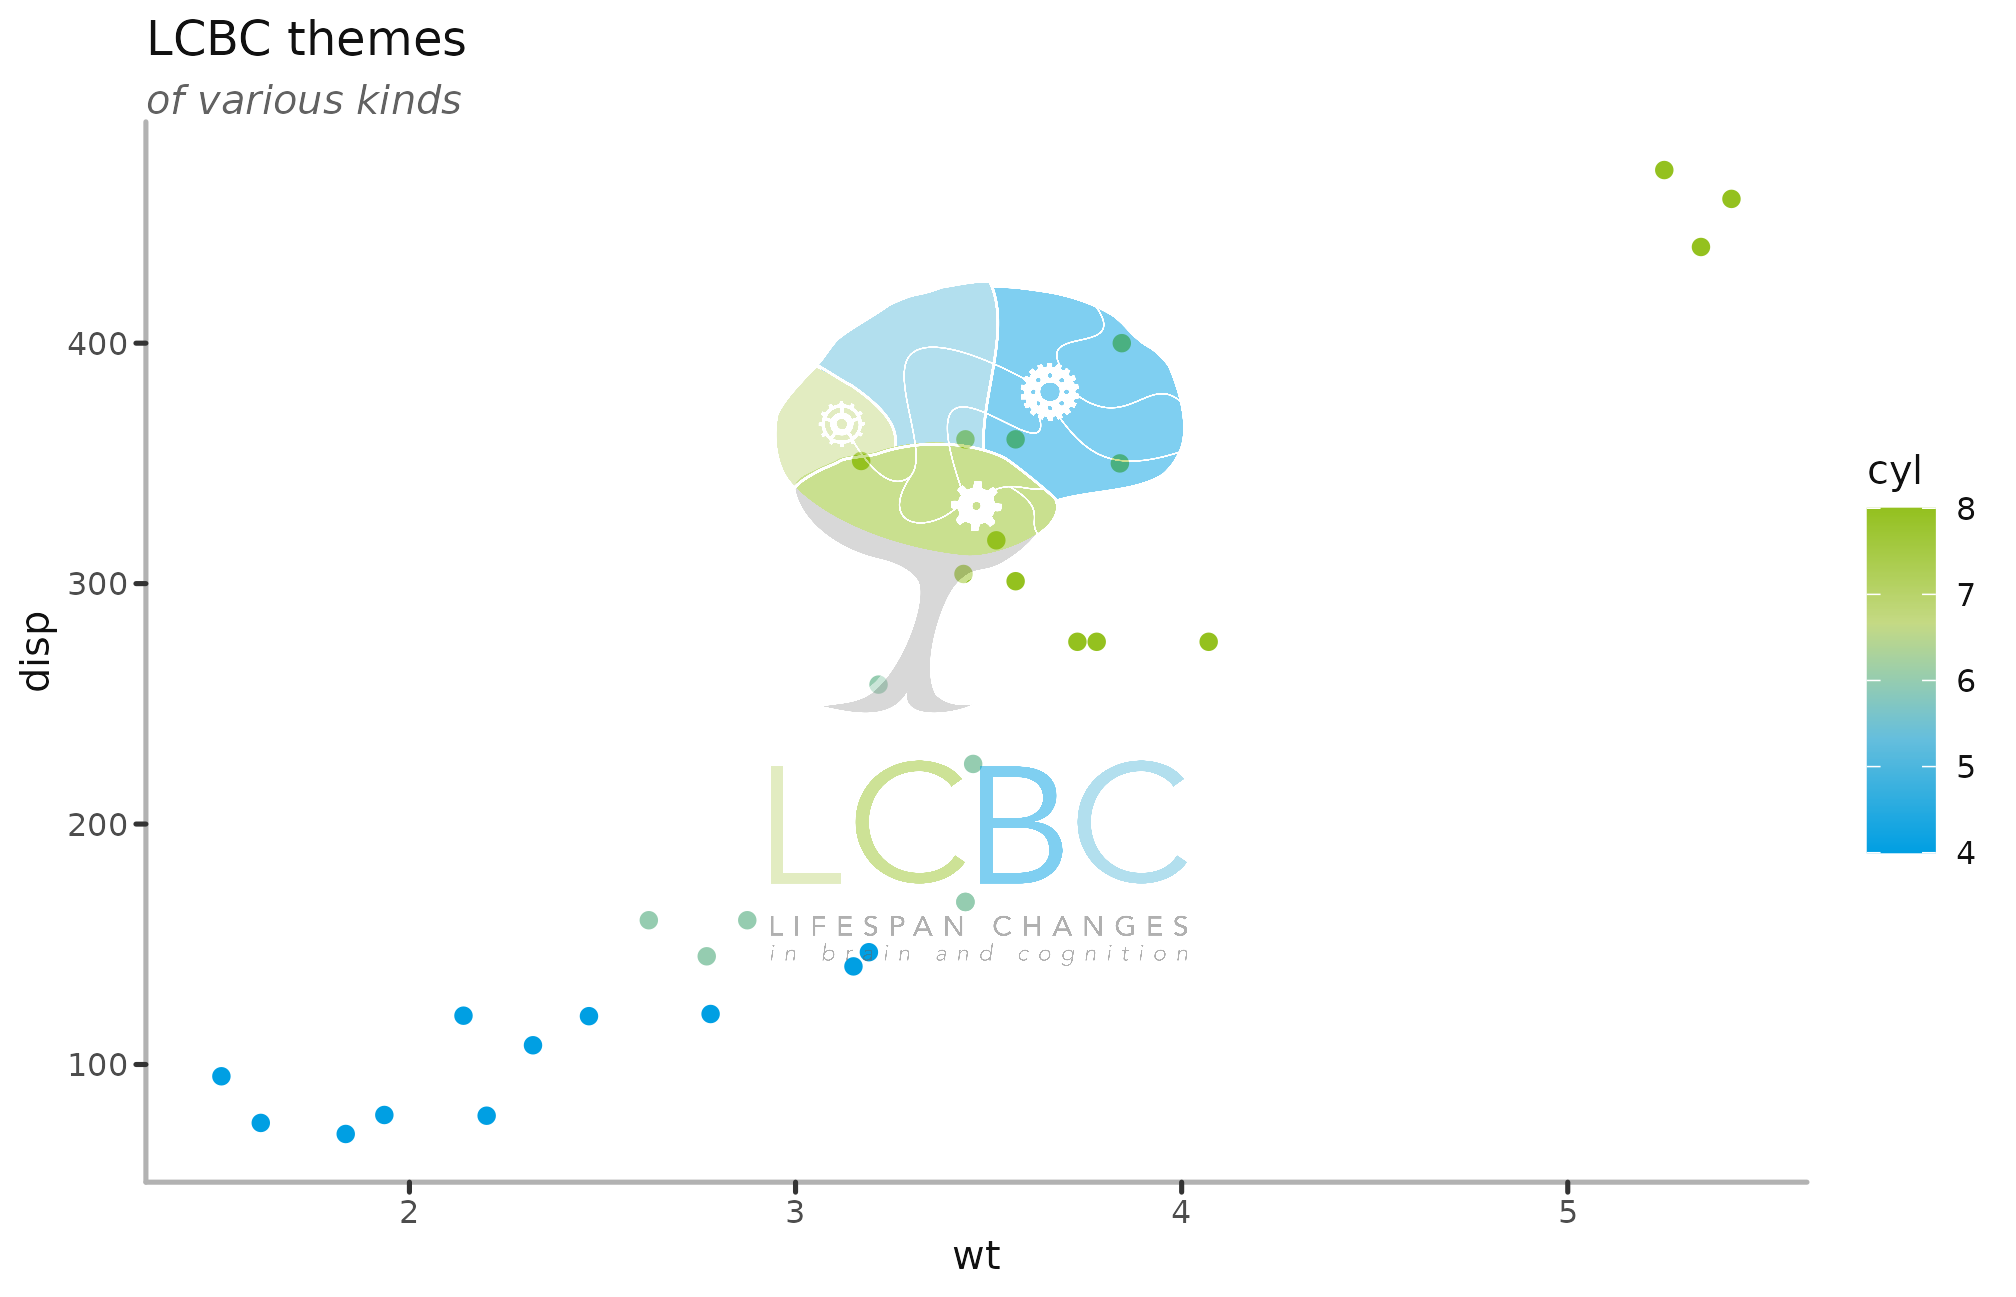
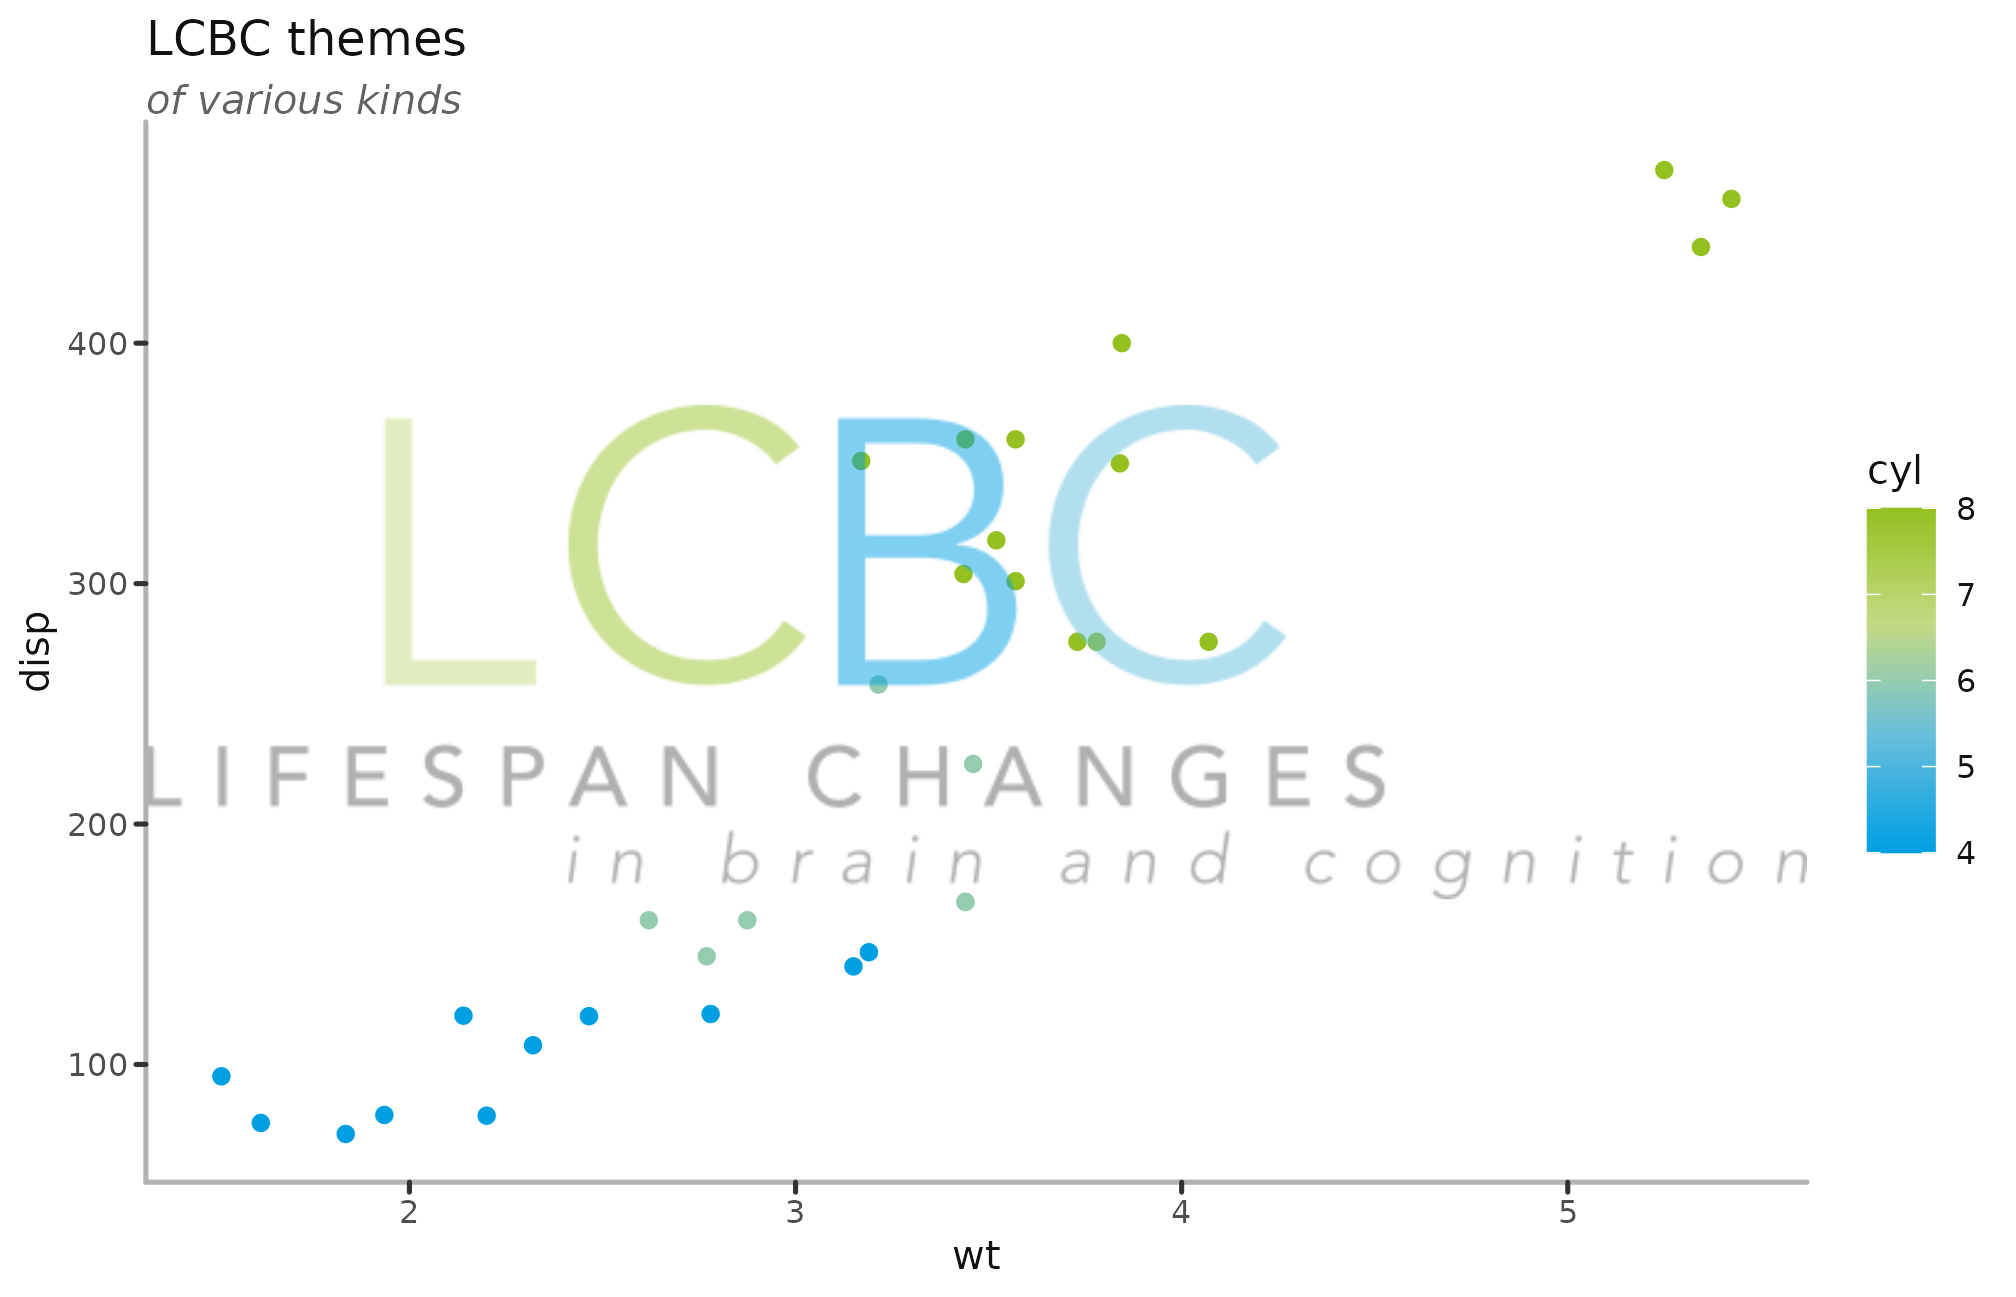
Built site for lcbcr: 0.0.1.900@92ea2e2

diff --git a/articles/ggplot-branding.html b/articles/ggplot-branding.html
@@ -40,7 +40,7 @@
       </button>
       <span class="navbar-brand">
         <a class="navbar-link" href="../index.html">lcbcr</a>
-        <span class="version label label-default" data-toggle="tooltip" data-placement="bottom" title="">0.0.1</span>
+        <span class="version label label-default" data-toggle="tooltip" data-placement="bottom" title="">0.0.1.900</span>
       </span>
     </div>
 
@@ -213,7 +213,7 @@
        subtitle <span class="op">=</span> <span class="st">"of various kinds"</span><span class="op">)</span> <span class="op">+</span>
   <span class="fu"><a href="../reference/scale_colour_lcbc.html">scale_colour_lcbc</a></span><span class="op">(</span>discrete <span class="op">=</span> <span class="cn">FALSE</span><span class="op">)</span> <span class="op">+</span>
   <span class="fu"><a href="../reference/theme_lcbc.html">theme_lcbc</a></span><span class="op">(</span><span class="op">)</span> <span class="op">+</span>
-  <span class="fu"><a href="../reference/add_lcbc_logo.html">add_lcbc_logo</a></span><span class="op">(</span><span class="st">"long"</span>, alpha<span class="op">=</span><span class="fl">.5</span><span class="op">)</span> </code></pre></div>
+  <span class="fu"><a href="../reference/add_lcbc_logo.html">add_lcbc_logo</a></span><span class="op">(</span><span class="st">"text"</span>, alpha<span class="op">=</span><span class="fl">.5</span><span class="op">)</span> </code></pre></div>
 <p><img src="ggplot-branding_files/figure-html/unnamed-chunk-9-1.png" width="100%"></p>
 <div class="sourceCode" id="cb16"><pre class="downlit sourceCode r">
 <code class="sourceCode R"><span class="va">mtcars</span> <span class="op"><a href="https://magrittr.tidyverse.org/reference/pipe.html" class="external-link">%&gt;%</a></span> 

diff --git a/authors.html b/authors.html
@@ -17,7 +17,7 @@
       </button>
       <span class="navbar-brand">
         <a class="navbar-link" href="index.html">lcbcr</a>
-        <span class="version label label-default" data-toggle="tooltip" data-placement="bottom" title="">0.0.1</span>
+        <span class="version label label-default" data-toggle="tooltip" data-placement="bottom" title="">0.0.1.900</span>
       </span>
     </div>
 
@@ -76,13 +76,13 @@
 
     <p>Mowinckel A (2022).
 <em>lcbcr: LCBC brand package</em>.
-R package version 0.0.1, <a href="https://github.com/LCBC-UiO/lcbcr" class="external-link">https://github.com/LCBC-UiO/lcbcr</a>. 
+R package version 0.0.1.900, <a href="https://github.com/LCBC-UiO/lcbcr" class="external-link">https://github.com/LCBC-UiO/lcbcr</a>. 
 </p>
     <pre>@Manual{,
   title = {lcbcr: LCBC brand package},
   author = {Athanasia Mo Mowinckel},
   year = {2022},
-  note = {R package version 0.0.1},
+  note = {R package version 0.0.1.900},
   url = {https://github.com/LCBC-UiO/lcbcr},
 }</pre>
 

diff --git a/reference/lcbc_logo_list.html b/reference/lcbc_logo_list.html
@@ -17,7 +17,7 @@
       </button>
       <span class="navbar-brand">
         <a class="navbar-link" href="../index.html">lcbcr</a>
-        <span class="version label label-default" data-toggle="tooltip" data-placement="bottom" title="">0.0.1</span>
+        <span class="version label label-default" data-toggle="tooltip" data-placement="bottom" title="">0.0.1.900</span>
       </span>
     </div>
 
@@ -77,7 +77,7 @@
     <div id="ref-examples">
     <h2>Examples</h2>
     <div class="sourceCode"><pre class="sourceCode r"><code><span class="r-in"><span class="fu">lcbc_logo_list</span><span class="op">(</span><span class="op">)</span></span>
-<span class="r-out co"><span class="r-pr">#&gt;</span> [1] "brain" "long"  "main"  "text" </span>
+<span class="r-out co"><span class="r-pr">#&gt;</span> [1] "brain" "main"  "text" </span>
 </code></pre></div>
     </div>
   </div>

diff --git a/reference/add_lcbc_logo.html b/reference/add_lcbc_logo.html
@@ -18,7 +18,7 @@ early in the plot building"><meta property="og:image" content="/logo.png"><!-- m
       </button>
       <span class="navbar-brand">
         <a class="navbar-link" href="../index.html">lcbcr</a>
-        <span class="version label label-default" data-toggle="tooltip" data-placement="bottom" title="">0.0.1</span>
+        <span class="version label label-default" data-toggle="tooltip" data-placement="bottom" title="">0.0.1.900</span>
       </span>
     </div>
 

diff --git a/articles/index.html b/articles/index.html
@@ -17,7 +17,7 @@
       </button>
       <span class="navbar-brand">
         <a class="navbar-link" href="../index.html">lcbcr</a>
-        <span class="version label label-default" data-toggle="tooltip" data-placement="bottom" title="">0.0.1</span>
+        <span class="version label label-default" data-toggle="tooltip" data-placement="bottom" title="">0.0.1.900</span>
       </span>
     </div>
 

diff --git a/articles/templates.html b/articles/templates.html
@@ -40,7 +40,7 @@
       </button>
       <span class="navbar-brand">
         <a class="navbar-link" href="../index.html">lcbcr</a>
-        <span class="version label label-default" data-toggle="tooltip" data-placement="bottom" title="">0.0.1</span>
+        <span class="version label label-default" data-toggle="tooltip" data-placement="bottom" title="">0.0.1.900</span>
       </span>
     </div>
 

diff --git a/news/index.html b/news/index.html
@@ -17,7 +17,7 @@
       </button>
       <span class="navbar-brand">
         <a class="navbar-link" href="../index.html">lcbcr</a>
-        <span class="version label label-default" data-toggle="tooltip" data-placement="bottom" title="">0.0.1</span>
+        <span class="version label label-default" data-toggle="tooltip" data-placement="bottom" title="">0.0.1.900</span>
       </span>
     </div>
 

diff --git a/reference/create_paper_project.html b/reference/create_paper_project.html
@@ -17,7 +17,7 @@
       </button>
       <span class="navbar-brand">
         <a class="navbar-link" href="../index.html">lcbcr</a>
-        <span class="version label label-default" data-toggle="tooltip" data-placement="bottom" title="">0.0.1</span>
+        <span class="version label label-default" data-toggle="tooltip" data-placement="bottom" title="">0.0.1.900</span>
       </span>
     </div>
 

diff --git a/reference/index.html b/reference/index.html
@@ -17,7 +17,7 @@
       </button>
       <span class="navbar-brand">
         <a class="navbar-link" href="../index.html">lcbcr</a>
-        <span class="version label label-default" data-toggle="tooltip" data-placement="bottom" title="">0.0.1</span>
+        <span class="version label label-default" data-toggle="tooltip" data-placement="bottom" title="">0.0.1.900</span>
       </span>
     </div>
 

diff --git a/reference/lcbc_cols.html b/reference/lcbc_cols.html
@@ -17,7 +17,7 @@
       </button>
       <span class="navbar-brand">
         <a class="navbar-link" href="../index.html">lcbcr</a>
-        <span class="version label label-default" data-toggle="tooltip" data-placement="bottom" title="">0.0.1</span>
+        <span class="version label label-default" data-toggle="tooltip" data-placement="bottom" title="">0.0.1.900</span>
       </span>
     </div>
 

diff --git a/reference/lcbc_install_font.html b/reference/lcbc_install_font.html
@@ -17,7 +17,7 @@
       </button>
       <span class="navbar-brand">
         <a class="navbar-link" href="../index.html">lcbcr</a>
-        <span class="version label label-default" data-toggle="tooltip" data-placement="bottom" title="">0.0.1</span>
+        <span class="version label label-default" data-toggle="tooltip" data-placement="bottom" title="">0.0.1.900</span>
       </span>
     </div>
 

diff --git a/reference/lcbc_logo_grob.html b/reference/lcbc_logo_grob.html
@@ -17,7 +17,7 @@
       </button>
       <span class="navbar-brand">
         <a class="navbar-link" href="../index.html">lcbcr</a>
-        <span class="version label label-default" data-toggle="tooltip" data-placement="bottom" title="">0.0.1</span>
+        <span class="version label label-default" data-toggle="tooltip" data-placement="bottom" title="">0.0.1.900</span>
       </span>
     </div>
 
